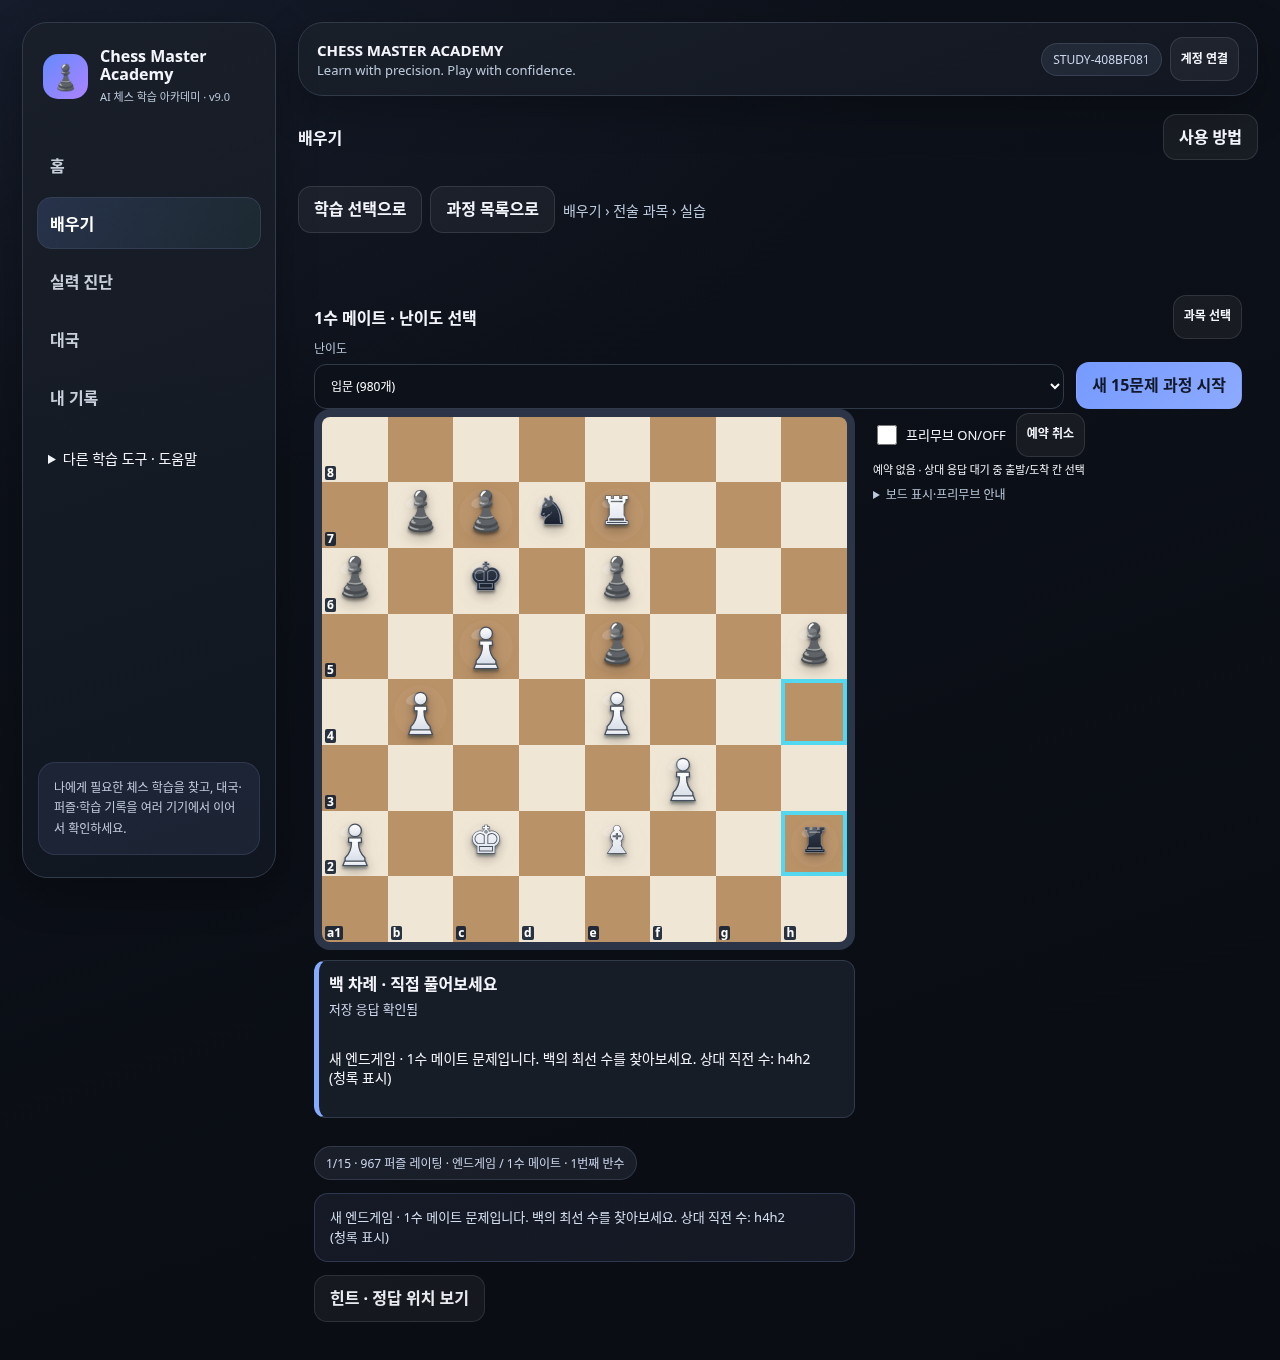
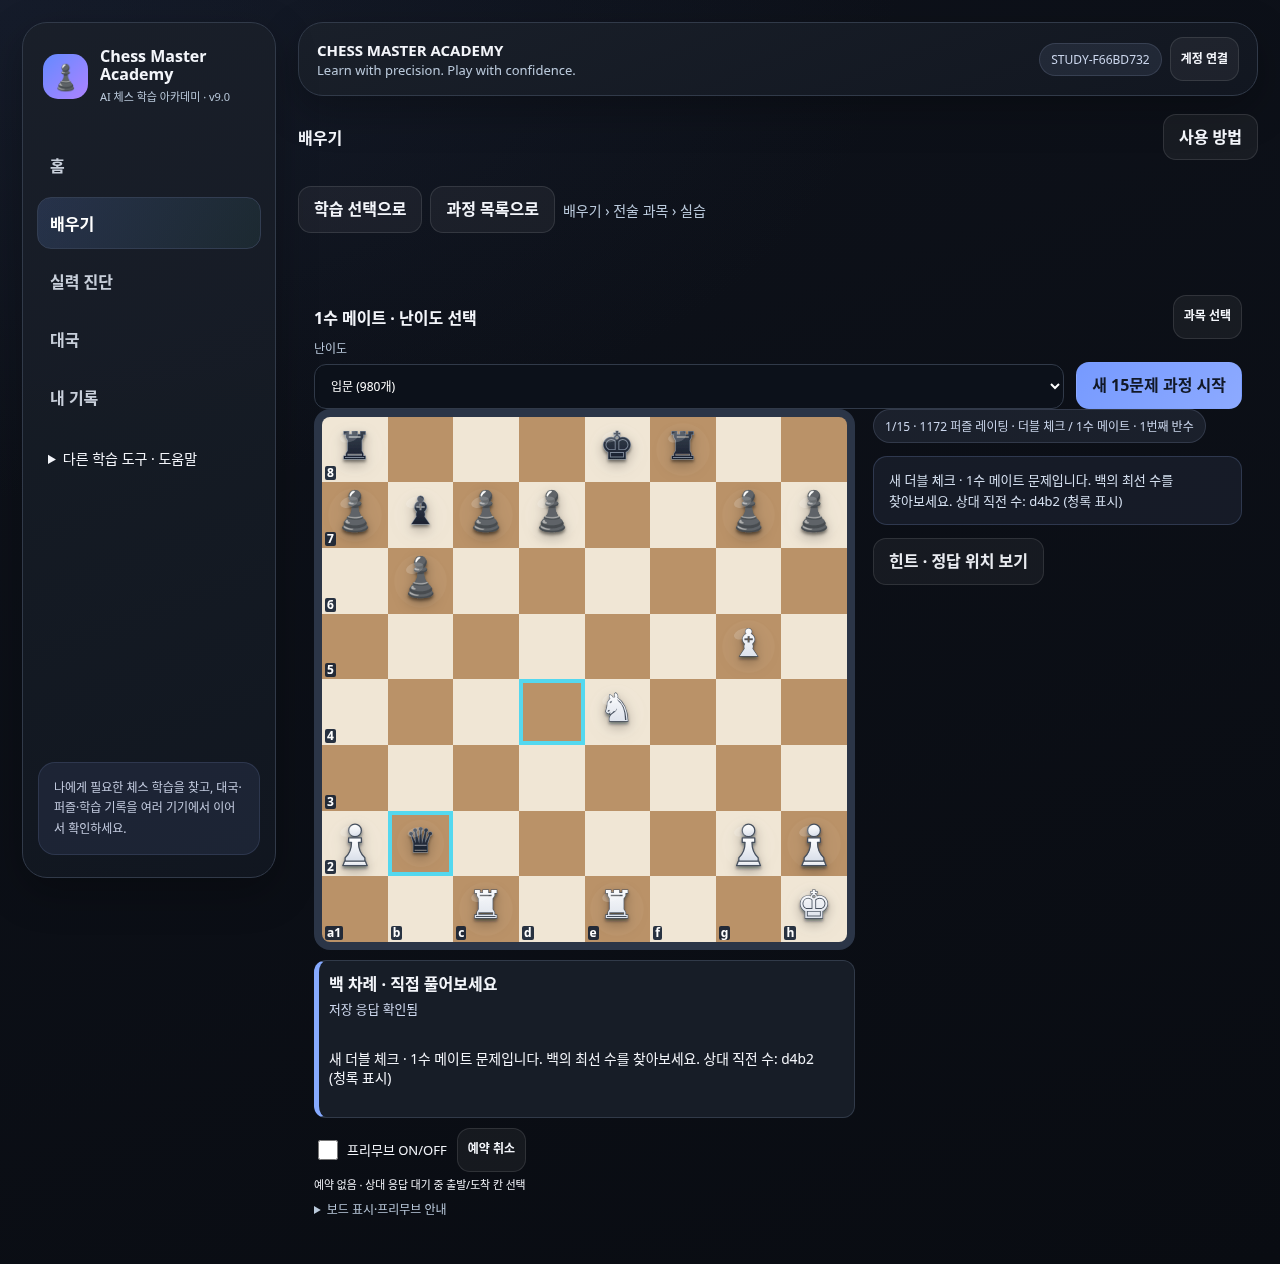
Keep premove tools with course board and validate actual action column

diff --git a/public/board-feedback.js b/public/board-feedback.js
@@ -1,7 +1,7 @@
 /* Display-only adapters: controllers supply verdict/save semantics; no grading or writes. */
 (()=>{'use strict';
 const states=new Map(),panels=new Map();
-function panel(id){const board=document.getElementById(id);if(!board)return null;let p=panels.get(id);if(!p?.isConnected){p=document.createElement('section');p.id=id+'Feedback';p.className='board-feedback';p.setAttribute('aria-label','현재 진행과 저장 상태');p.innerHTML='<div role="status" aria-live="polite" aria-atomic="true"><strong></strong><span class="board-save"></span></div><p class="board-detail" tabindex="0"></p><div class="board-facts" hidden><button type="button" class="btn">보드 관계 표시 숨기기</button><p></p></div>';if(['v9CourseBoard','educationBoard','repertoireBoard'].includes(id)&&!board.parentElement.classList.contains('board-feedback-column')){const column=document.createElement('div');column.className='board-feedback-column';board.before(column);column.append(board);}board.after(p);panels.set(id,p);const facts=p.querySelector('.board-facts');facts.id=id+'Facts';if(id==='learningBoard')document.getElementById('learningControls').after(facts);facts.querySelector('button').onclick=()=>{const s=states.get(id);if(s){s.hideFacts=!s.hideFacts;render(id);decorate(id);}};}return p;}
+function panel(id){const board=document.getElementById(id);if(!board)return null;let p=panels.get(id);if(!p?.isConnected){p=document.createElement('section');p.id=id+'Feedback';p.className='board-feedback';p.setAttribute('aria-label','현재 진행과 저장 상태');p.innerHTML='<div role="status" aria-live="polite" aria-atomic="true"><strong></strong><span class="board-save"></span></div><p class="board-detail" tabindex="0"></p><div class="board-facts" hidden><button type="button" class="btn">보드 관계 표시 숨기기</button><p></p></div>';if(['v9CourseBoard','educationBoard','repertoireBoard'].includes(id)&&!board.parentElement.classList.contains('board-feedback-column')){const column=document.createElement('div');column.className='board-feedback-column';board.before(column);column.append(board);const tools=column.nextElementSibling;if(tools?.classList.contains('board-tools'))column.append(tools);}board.after(p);panels.set(id,p);const facts=p.querySelector('.board-facts');facts.id=id+'Facts';if(id==='learningBoard')document.getElementById('learningControls').after(facts);facts.querySelector('button').onclick=()=>{const s=states.get(id);if(s){s.hideFacts=!s.hideFacts;render(id);decorate(id);}};}return p;}
 function set(id,value){const identity=typeof token==='undefined'?null:token,old=states.get(id);states.set(id,{...(old?.owner===identity?old:{}),...value,owner:identity});render(id);decorate(id);}
 function render(id){const s=states.get(id),p=panel(id);if(!p)return;p.hidden=!s?.title;if(p.hidden)return;p.dataset.kind=s.kind||'ready';p.querySelector('strong').textContent=s.title;p.querySelector('.board-save').textContent=s.save||'';p.querySelector('.board-detail').textContent=s.detail||'';const f=document.getElementById(id+'Facts');f.hidden=!s.facts?.arrows?.length;f.querySelector('button').textContent=s.hideFacts?'보드 관계 다시 보기':'보드 관계 표시 숨기기';f.querySelector('p').textContent=s.facts?.note||'';}
 function decorate(id){const board=document.getElementById(id),s=states.get(id);if(!board)return;board.querySelectorAll('.feedback-fact-label,.feedback-fact-lines').forEach(n=>n.remove());board.querySelectorAll('.feedback-fact').forEach(n=>n.classList.remove('feedback-fact'));if(!s||s.owner!==(typeof token==='undefined'?null:token)){clear(id);return;}const data=s.facts,holder=document.getElementById(id+'Facts');if(holder)holder.hidden=true;if(!data)return;const expected=fromFen(data.fen),actual={};for(const cell of board.querySelectorAll('.sq')){const sq=cell.getAttribute('aria-label').slice(0,2);if(expected[sq]){const name=cell.getAttribute('aria-label');const names={p:'폰',n:'나이트',b:'비숍',r:'룩',q:'퀸',k:'킹'};const piece=expected[sq];if(!name.startsWith(sq+' '+(piece===piece.toUpperCase()?'백 ':'흑 ')+names[piece.toLowerCase()]))return;actual[sq]=piece;}else if(!cell.getAttribute('aria-label').startsWith(sq+' 빈 칸'))return;}if(Object.keys(actual).length!==Object.keys(expected).length)return;if(holder)holder.hidden=!data.arrows?.length;if(s.hideFacts)return;

diff --git a/tests/test_board_feedback_followup_browser.py b/tests/test_board_feedback_followup_browser.py
@@ -97,7 +97,7 @@ def test_course_board_feedback_column(page,site,width):
     column=page.locator('#v9CourseBoard').locator('..')
     assert 'board-feedback-column' in column.get_attribute('class')
     assert column.locator('#v9CourseBoardFeedback').count()==1
-    boxes=page.evaluate('()=>{const c=document.getElementById("v9CourseBoard").parentElement;return [c.getBoundingClientRect().toJSON(),c.nextElementSibling.getBoundingClientRect().toJSON()]}')
+    boxes=page.evaluate('()=>{const c=document.getElementById("v9CourseBoard").parentElement;return [c.getBoundingClientRect().toJSON(),document.getElementById("v9CourseHint").parentElement.getBoundingClientRect().toJSON()]}')
     if width==1280:assert boxes[1]['x']>=boxes[0]['right']-1 and abs(boxes[0]['y']-boxes[1]['y'])<=8
     assert page.evaluate('document.documentElement.scrollWidth<=innerWidth+1')
     page.screenshot(path=f'docs/qa-board-centered-feedback/captures/course-{width}.png',full_page=True)

diff --git a/docs/qa-board-centered-feedback/RESUME.md b/docs/qa-board-centered-feedback/RESUME.md
@@ -40,3 +40,4 @@ PR27 draft created after new direct user resumption authorization; prior blocked
 New focused tests: education/repertoire 390/1280 slow actual API and same-column DOM 4 passed; study initial failures/retry x2, V8 lifecycle and learning settings 4 passed. Captures opened and inspected. Course test initially failed because test omitted tab('learn') before internal selection; corrected to actual entry sequence. Existing assertion meaning unchanged.
 Current next command: PYTHONPATH=.:tests:docs/qa-board-centered-feedback STOCKFISH_PATH=/tmp/stockfish/stockfish-ubuntu-x86-64-avx2 CMA_JOURNEY_INDEX=/tmp/chess-journey-index.json.gz /tmp/chess-venv/bin/python -m pytest -p cma_reap_tests -q (all test files). cma_reap_tests only reaps this process's orphan children unless CMA_LOW_RESOURCE=1; leave that unset.
 Course PC test measured intended 4px existing aside margin: changed same-row tolerance from 3px to 8px while keeping separate-column/overflow assertions. No runtime adjustment. Consolidated follow-up10 normal Chromium result in logs/cma-followup-complete.log. Next full regression uses normal Chromium sequentially (no single-process flag). Previous intermediate failure logs remain labelled and temporary local test token redacted.
+Pixel review found course premove tools remained an extra grid child; moved existing tools into board column (no handler change), and test now checks actual hint-controls parent rather than immediate sibling. Corrected course320/1280 tests 2 passed. Full collection first stopped with28 errors due missing httpx in recreated venv; installed httpx, not a product code failure. Removed accidentally tracked regenerated Python bytecode from git index, local file preserved.
